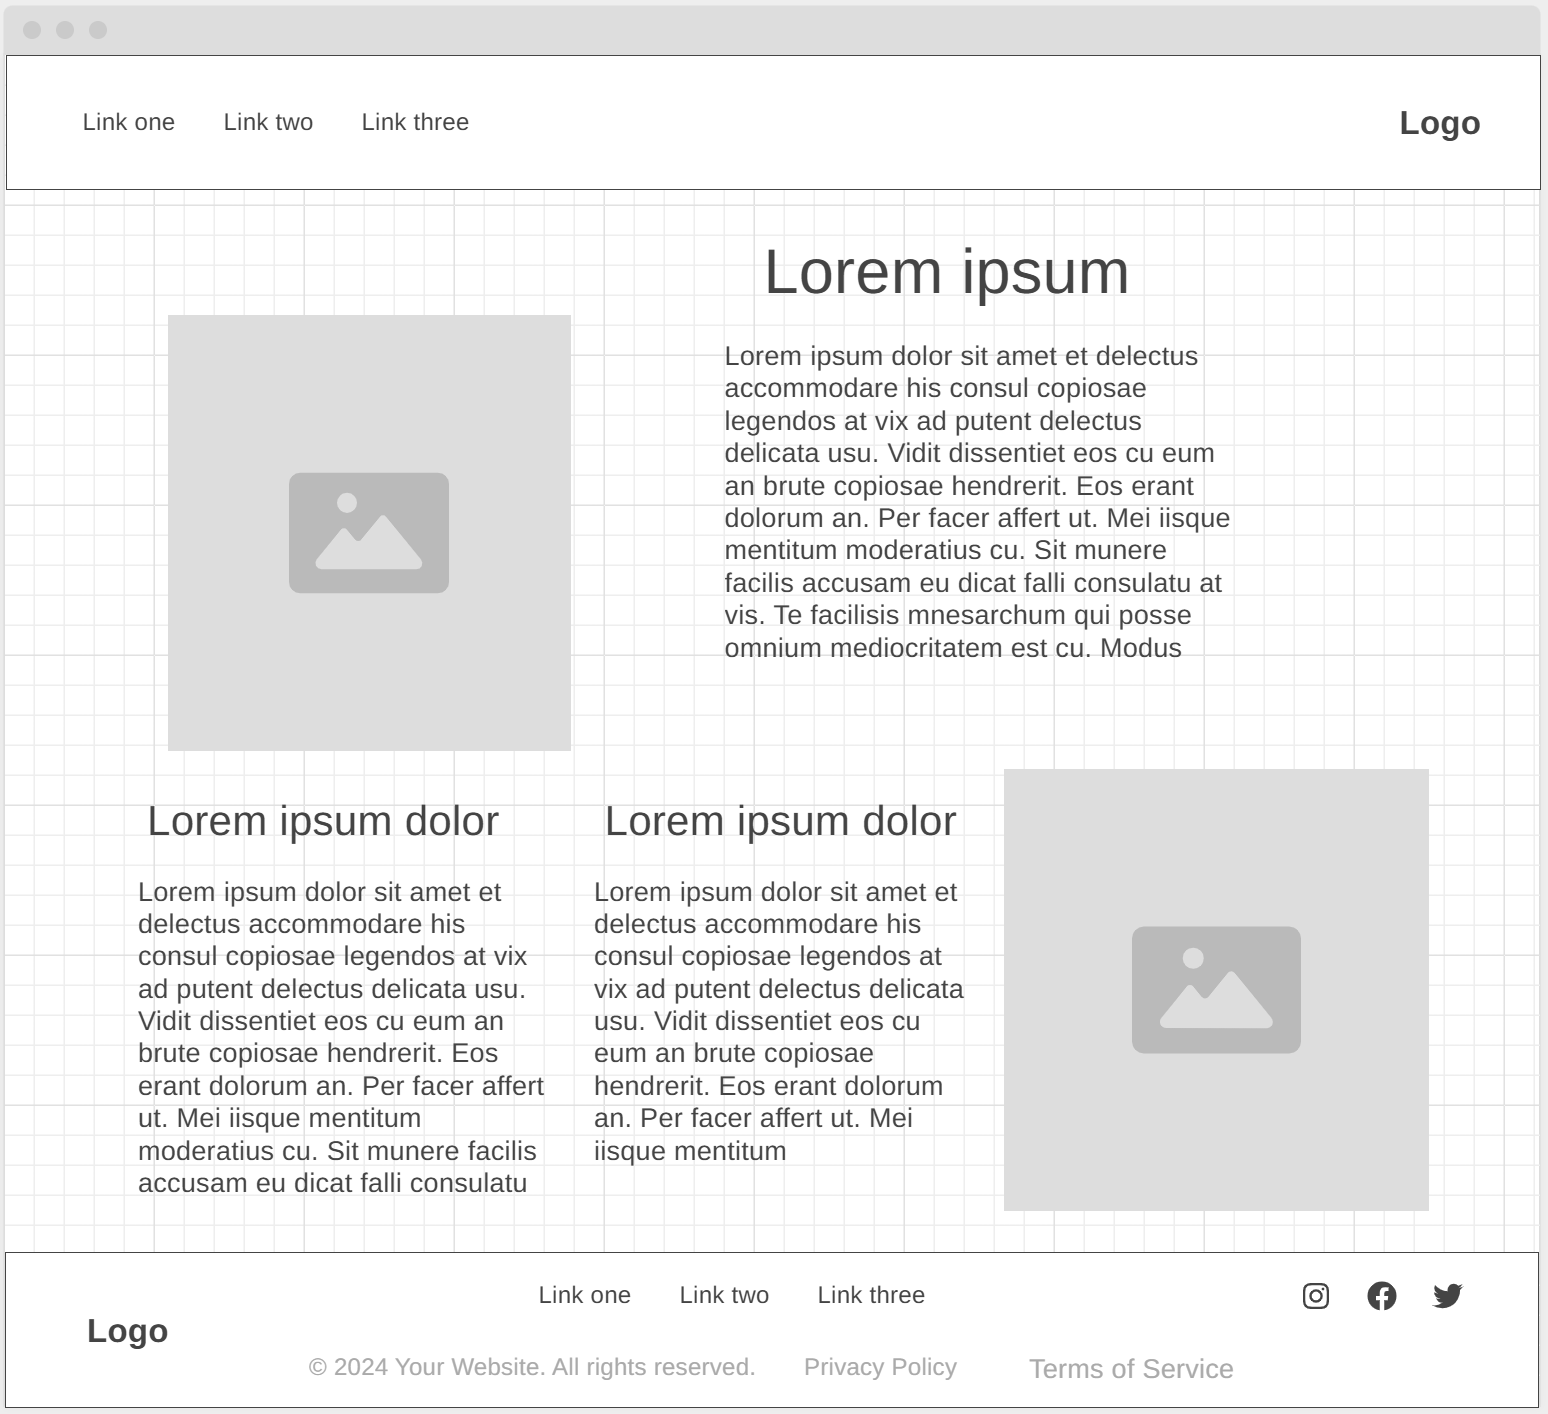
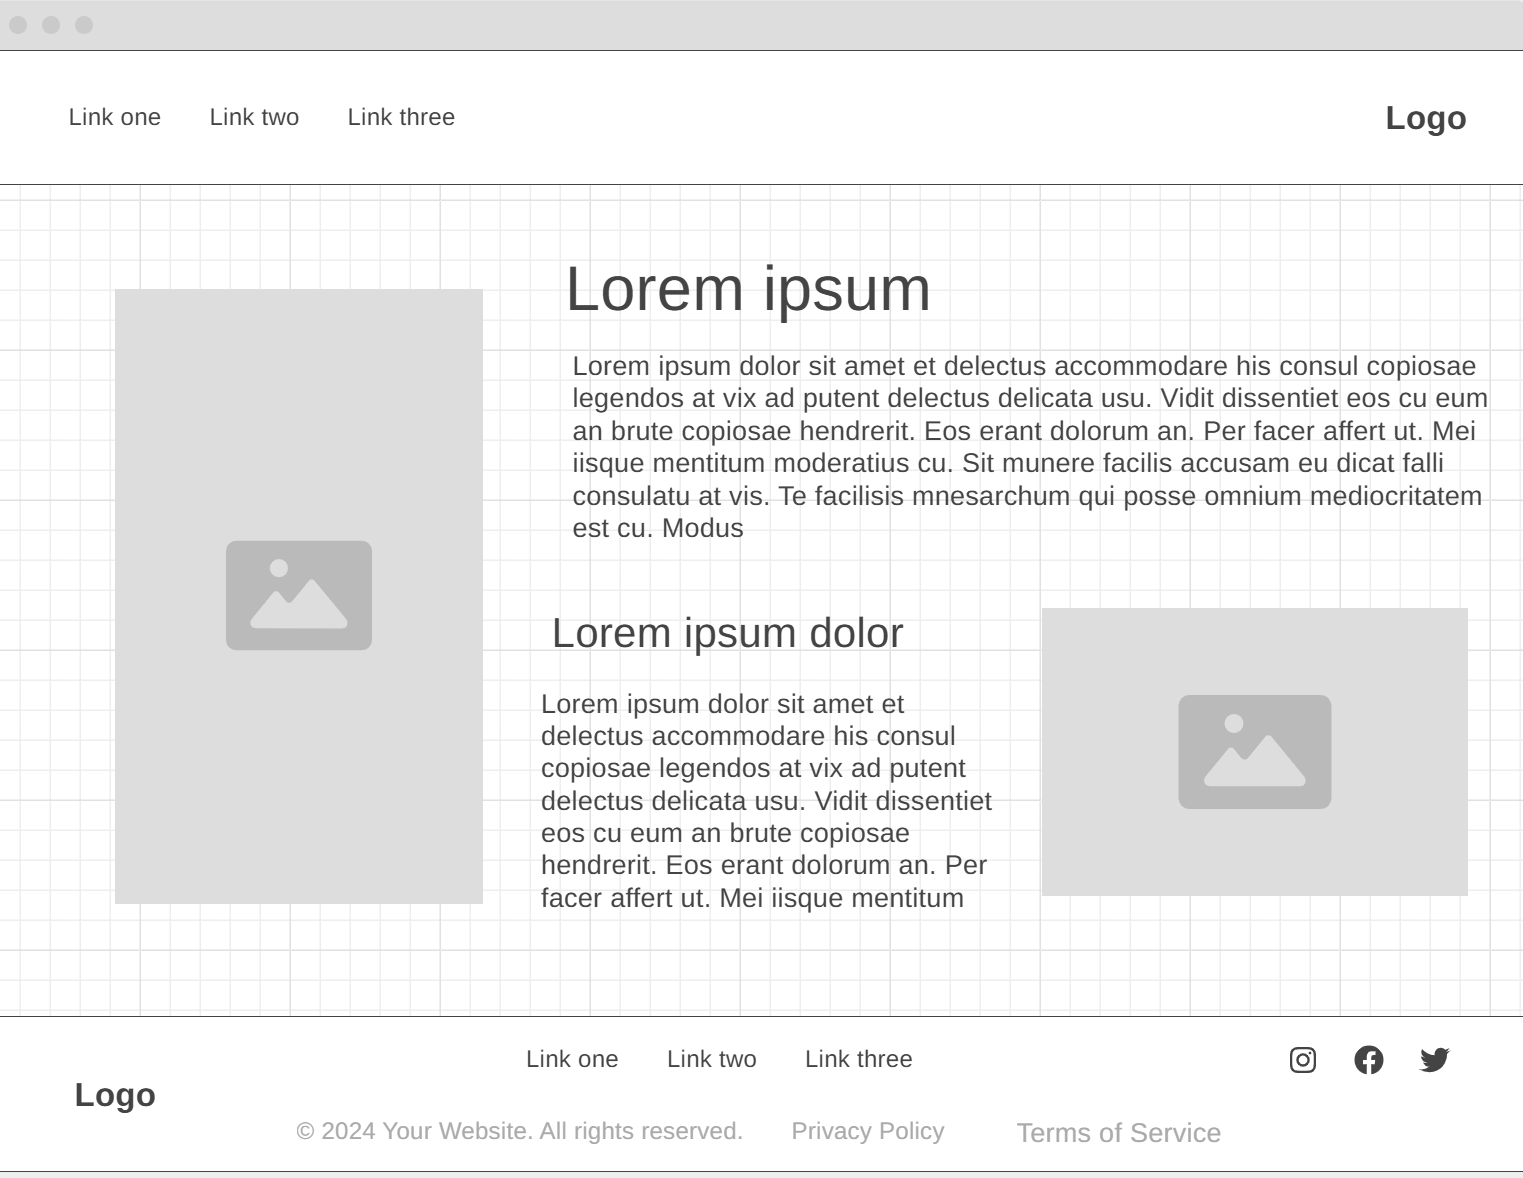
Finish styling

diff --git a/aboutme.html b/aboutme.html
@@ -11,29 +11,32 @@
 <body>
     <header>
         <nav>
-            <a href="index.html">Home</a>
-            <a href="projects.html">Projects</a>
-            <a href="aboutme.html">About Me</a>
+            <a href="index.html">HOME</a>
+            <a href="projects.html">PROJECTS</a>
+            <a href="aboutme.html">ABOUT ME</a>
         </nav>
-        <a id="logo_link" href="index.html">
+        <a class="logo_link" href="index.html">
             <img class="logo" src="images/portfolio-logo.png" alt="Sariah Nall Logo">
         </a>
     </header>
     <main>
         <div id="about-grid">
-            <img class="about-imgs" src="images/aboutmeone.jpg" alt="Sariah Portrait Picture">
+            <div class="card">
+                <img src="images/aboutmeone.jpg" alt="John" style="width:100%">
+                <h1>Sariah Nall</h1>
+                <p>BYU-Idaho University</p>
+                <p class="card-button"><a href="contactme.html">Contact</a></p>
+            </div>
             <h1 class="grid-title">Title</h1>
-            <p class="grid-paragraphs">Sprout hot sprout sweet potato potato bean fry. Taro spud taro hashbrown patata patata sweet potato. Rhizome chip potato bean nightshade hashbrown tots. Spud baked spud sweet potato plant potato hashbrown bulb. Latke fries patata taro mash taro plant bulb patata. Solanum tuberosum yam root potato tattie fry bulb solanum tuberosum.</p>
-            <h4>Subheading</h4>
-            <p class="grid-paragraphs">Sprout hot sprout sweet potato potato bean fry. Taro spud taro hashbrown patata patata sweet potato. Rhizome chip potato bean nightshade hashbrown tots. Spud baked spud sweet potato plant potato hashbrown bulb. Latke fries patata taro mash taro plant bulb patata. Solanum tuberosum yam root potato tattie fry bulb solanum tuberosum.</p>
-            <h4 class="grid-subhead">Subheading</h4>
-            <p class="grid-paragraphs">Sprout hot sprout sweet potato potato bean fry. Taro spud taro hashbrown patata patata sweet potato. Rhizome chip potato bean nightshade hashbrown tots. Spud baked spud sweet potato plant potato hashbrown bulb. Latke fries patata taro mash taro plant bulb patata. Solanum tuberosum yam root potato tattie fry bulb solanum tuberosum.</p>
-            <img class="about-imgs" src="images/abouttwo.jpg" alt="Teamwork Picture">
+            <p class="grid-paragraphs" id="aboutone">Sprout hot sprout sweet potato potato bean fry. Taro spud taro hashbrown patata patata sweet potato. Rhizome chip potato bean nightshade hashbrown tots. Spud baked spud sweet potato plant potato hashbrown bulb. Latke fries patata taro mash taro plant bulb patata. Solanum tuberosum yam root potato tattie fry bulb solanum tuberosum.</p>
+            <h2 class="grid-subhead">Subheading</h2>
+            <p class="grid-paragraphs" id="abouttwo">Sprout hot sprout sweet potato potato bean fry. Taro spud taro hashbrown patata patata sweet potato. Rhizome chip potato bean nightshade hashbrown tots. Spud baked spud sweet potato plant potato hashbrown bulb. Latke fries patata taro mash taro plant bulb patata. Solanum tuberosum yam root potato tattie fry bulb solanum tuberosum.</p>
+            <img class="about-img" src="images/abouttwo.jpg" alt="Teamwork Picture">
         </div>
 
     </main>
     <footer>
-        <a id="logo_link" href="index.html">
+        <a class="logo_link" href="index.html">
             <img class="logo" src="images/portfolio-logo.png" alt="Sariah Nall Logo">
         </a>
         <p>SNall Projects &copy; 2024 - Sariah Nall</p>

diff --git a/styles/home.css b/styles/home.css
@@ -12,7 +12,7 @@
 body{
     margin: 0;
 }
-body h1, h4{
+body h1, h2, h3, h4{
     font-family: var(--heading-font);
 }
 body p{
@@ -45,7 +45,7 @@ nav a{
     padding: 35px;
 }
 nav a:hover{
-    background-color: var(--accent1-color);
+    background-color: var(--accent2-color);
     color: black;
 }
 footer{
@@ -62,7 +62,7 @@ footer a{
     color: white;
 }
 footer a:hover{
-    color: var(--accent1-color);
+    color: black;
 }
 footer p{
     font-size: 1.2em;
@@ -75,7 +75,7 @@ footer p:hover{
     text-decoration: underline;
 }
 
-/* Home page CSS */
+/* Home Page CSS */
 #hero {
     display: grid;
     grid-template-columns: 50px 1fr 3fr 1fr 50px;
@@ -128,8 +128,61 @@ footer p:hover{
     margin-top: -20%;
 }
 
-/*  */
-
+/* About Me CSS */
+#about-grid{
+    display: grid;
+    grid-template-columns: 100px 1fr 1fr 1fr 100px;
+    grid-template-rows: 50px 1fr 1fr;
+    grid-column-gap: 25px;
+}
+.card{
+    box-shadow: 0 4px 8px 0 rgba(0, 0, 0, 0.2);
+    max-width: 300px;
+    max-height: 475px;
+    text-align: center;
+    grid-column: 2/3;
+    grid-row: 2/4;
+}
+.card-button{
+    outline: 0;
+    padding: 8px 0px;
+    background-color: var(--accent1-color);
+    width: 100%;
+    font-size: 12px;
+}
+a{
+    text-decoration: none;
+    font-size: 22px;
+    color: white;
+}
+a:hover{
+    color: white;
+    opacity: 0.7;
+}
+.grid-title{
+    grid-column: 3/5;
+    grid-row: 1/2;
+    margin-top: 30px;
+}
+#aboutone{
+    grid-column: 3/5;
+    grid-row: 2/3;
+    margin-top: 30px;
+}
+.grid-subhead{
+    grid-column: 3/4;
+    grid-row: 3/4;
+    margin-top: -25px;
+}
+#abouttwo{
+    grid-column: 3/4;
+    grid-row: 3/4;
+}
+.about-img{
+    width: 90%;
+    grid-column: 4/6;
+    grid-row: 3/4
+}
 
 
 

diff --git a/site-plan.html b/site-plan.html
@@ -116,24 +116,18 @@
       <p>Images for the Home page</p>
         <img class="img" src="images/homeone.jpeg" alt="computer workplace">
         <img class="img" src="images/hometwo.jpg" alt="code on screen">
-
-      </ul>
       <h3>Projects</h3>
       <p>
         The Projects Page is dedicated to showcasing the practical applications of my skills through detailed descriptions of the projects I have worked on. Each project is categorized and includes information on the tools used, the problems solved, and the development process. This page highlights the range of projects I've worked on and demonstrates my growth as a developer.</p>
       <p>Images for the Page 2</p>
         <img class="img" src="images/projectone.jpg" alt="website example">
         <img class="img" src="images/projecttwo.jpg" alt="coding example">
-
-      </ul>
       <h3>About Me</h3>
       <p>
         The About Me Page provides a deeper look into my background and goals in software engineering. It also serves as a way for visitors to get in touch with me, whether for collaboration, job opportunities, or to discuss ideas. This page includes contact information allowing professional networking. It emphasizes my openness to new opportunities and my eagerness to grow through collaboration.</p>
       <p>Images for the Page 3</p>
-        <img class="img" src="images/aboutmeone.jpg" alt="work pic">
-        <img class="img" src="images/abouttwo.jpg" alt="teamwork example">
-
-      </ul>
+      <img class="img" src="images/aboutmeone.jpg" alt="work pic">
+      <img class="img" src="images/abouttwo.jpg" alt="teamwork example">
       <hr>
       <h2>
         Wireframes

diff --git a/projects.html b/projects.html
@@ -11,11 +11,11 @@
 <body>
     <header>
         <nav>
-            <a href="index.html">Home</a>
-            <a href="projects.html">Projects</a>
-            <a href="aboutme.html">About Me</a>
+            <a href="index.html">HOME</a>
+            <a href="projects.html">PROJECTS</a>
+            <a href="aboutme.html">ABOUT ME</a>
         </nav>
-        <a id="logo_link" href="index.html">
+        <a class="logo_link" href="index.html">
             <img class="logo" src="images/portfolio-logo.png" alt="Sariah Nall Logo">
         </a>
     </header>
@@ -52,7 +52,7 @@
         </div>
     </main>
     <footer>
-        <a id="logo_link" href="index.html">
+        <a class="logo_link" href="index.html">
             <img class="logo" src="images/portfolio-logo.png" alt="Sariah Nall Logo">
         </a>
         <p>SNall Projects &copy; 2024 - Sariah Nall</p>
